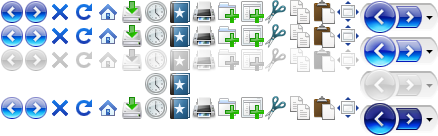
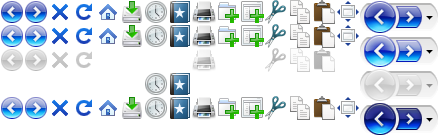
Bug 510442 - remove unneeded CSS and image data for toolbar buttons that are always enabled. r=rflint

Changed region(s): [[0.2078, 0.3529, 0.4452, 0.5294], [0.4749, 0.3529, 0.6233, 0.5294], [0.7717, 0.3529, 0.8311, 0.5294]]

diff --git a/browser/themes/winstripe/browser/browser.css b/browser/themes/winstripe/browser/browser.css
@@ -427,13 +427,10 @@ toolbar[iconsize="small"][mode="icons"] #back-forward-dropmarker:not([disabled="
 #home-button {
   -moz-image-region: rect(0px 120px 24px 96px);
 }
-#home-button:not([disabled="true"]):hover {
+#home-button:hover {
   -moz-image-region: rect(24px 120px 48px 96px);
 }
-#home-button[disabled="true"] {
-  -moz-image-region: rect(48px 120px 72px 96px);
-}
-#home-button:not([disabled="true"]):hover:active {
+#home-button:hover:active {
   -moz-image-region: rect(96px 120px 120px 96px);
 }
 
@@ -442,13 +439,10 @@ toolbar[iconsize="small"][mode="icons"] #back-forward-dropmarker:not([disabled="
 #downloads-button {
   -moz-image-region: rect(0px 144px 24px 120px);
 }
-#downloads-button:not([disabled="true"]):hover {
+#downloads-button:hover {
   -moz-image-region: rect(24px 144px 48px 120px);
 }
-#downloads-button[disabled="true"] {
-  -moz-image-region: rect(48px 144px 72px 120px);
-}
-#downloads-button:not([disabled="true"]):hover:active {
+#downloads-button:hover:active {
   -moz-image-region: rect(96px 144px 120px 120px);
 }
 
@@ -457,16 +451,13 @@ toolbar[iconsize="small"][mode="icons"] #back-forward-dropmarker:not([disabled="
 #history-button {
   -moz-image-region: rect(0px 168px 24px 144px);
 }
-#history-button:not([disabled="true"]):not([checked="true"]):hover {
+#history-button:not([checked="true"]):hover {
   -moz-image-region: rect(24px 168px 48px 144px);
-}
-#history-button[disabled="true"] {
-  -moz-image-region: rect(48px 168px 72px 144px);
 }
 #history-button[checked="true"] {
   -moz-image-region: rect(72px 168px 96px 144px);
 }
-#history-button:not([disabled="true"]):not([checked="true"]):hover:active {
+#history-button:not([checked="true"]):hover:active {
   -moz-image-region: rect(96px 168px 120px 144px);
 }
 
@@ -475,16 +466,13 @@ toolbar[iconsize="small"][mode="icons"] #back-forward-dropmarker:not([disabled="
 #bookmarks-button {
   -moz-image-region: rect(0px 192px 24px 168px);
 }
-#bookmarks-button:not([disabled="true"]):not([checked="true"]):hover {
+#bookmarks-button:not([checked="true"]):hover {
   -moz-image-region: rect(24px 192px 48px 168px);
-}
-#bookmarks-button[disabled="true"] {
-  -moz-image-region: rect(48px 192px 72px 168px);
 }
 #bookmarks-button[checked="true"] {
   -moz-image-region: rect(72px 192px 96px 168px);
 }
-#bookmarks-button:not([disabled="true"]):not([checked="true"]):hover:active {
+#bookmarks-button:not([checked="true"]):hover:active {
   -moz-image-region: rect(96px 192px 120px 168px);
 }
 
@@ -508,13 +496,10 @@ toolbar[iconsize="small"][mode="icons"] #back-forward-dropmarker:not([disabled="
 #new-tab-button {
   -moz-image-region: rect(0px 240px 24px 216px);
 }
-#new-tab-button:not([disabled="true"]):hover {
+#new-tab-button:hover {
   -moz-image-region: rect(24px 240px 48px 216px);
 }
-#new-tab-button[disabled="true"] {
-  -moz-image-region: rect(48px 240px 72px 216px);
-}
-#new-tab-button:not([disabled="true"]):hover:active {
+#new-tab-button:hover:active {
   -moz-image-region: rect(96px 240px 120px 216px);
 }
 
@@ -523,13 +508,10 @@ toolbar[iconsize="small"][mode="icons"] #back-forward-dropmarker:not([disabled="
 #new-window-button {
   -moz-image-region: rect(0px 264px 24px 240px);
 }
-#new-window-button:not([disabled="true"]):hover {
+#new-window-button:hover {
   -moz-image-region: rect(24px 264px 48px 240px);
 }
-#new-window-button[disabled="true"] {
-  -moz-image-region: rect(48px 264px 72px 240px);
-}
-#new-window-button:not([disabled="true"]):hover:active {
+#new-window-button:hover:active {
   -moz-image-region: rect(96px 264px 120px 240px);
 }
 
@@ -689,16 +671,12 @@ toolbar[iconsize="small"] #home-button ,
 #home-button.bookmark-item {
   -moz-image-region: rect(0px 80px 16px 64px);
 }
-toolbar[iconsize="small"] #home-button:not([disabled="true"]):hover ,
-#home-button.bookmark-item:not([disabled="true"]):hover {
+toolbar[iconsize="small"] #home-button:hover ,
+#home-button.bookmark-item:hover {
   -moz-image-region: rect(16px 80px 32px 64px);
 }
-toolbar[iconsize="small"] #home-button[disabled="true"] ,
-#home-button.bookmark-item[disabled="true"] {
-  -moz-image-region: rect(32px 80px 48px 64px);
-}
-toolbar[iconsize="small"] #home-button:not([disabled="true"]):hover:active ,
-#home-button.bookmark-item:not([disabled="true"]):hover:active {
+toolbar[iconsize="small"] #home-button:hover:active ,
+#home-button.bookmark-item:hover:active {
   -moz-image-region: rect(64px 80px 80px 64px);
 }
 
@@ -707,13 +685,10 @@ toolbar[iconsize="small"] #home-button:not([disabled="true"]):hover:active ,
 toolbar[iconsize="small"] #downloads-button {
   -moz-image-region: rect(0px 96px 16px 80px);
 }
-toolbar[iconsize="small"] #downloads-button:not([disabled="true"]):hover {
+toolbar[iconsize="small"] #downloads-button:hover {
   -moz-image-region: rect(16px 96px 32px 80px);
 }
-toolbar[iconsize="small"] #downloads-button[disabled="true"] {
-  -moz-image-region: rect(32px 96px 48px 80px);
-}
-toolbar[iconsize="small"] #downloads-button:not([disabled="true"]):hover:active {
+toolbar[iconsize="small"] #downloads-button:hover:active {
   -moz-image-region: rect(64px 96px 80px 80px);
 }
 
@@ -722,16 +697,13 @@ toolbar[iconsize="small"] #downloads-button:not([disabled="true"]):hover:active 
 toolbar[iconsize="small"] #history-button {
   -moz-image-region: rect(0px 112px 16px 96px);
 }
-toolbar[iconsize="small"] #history-button:not([disabled="true"]):not([checked="true"]):hover {
+toolbar[iconsize="small"] #history-button:not([checked="true"]):hover {
   -moz-image-region: rect(16px 112px 32px 96px);
-}
-toolbar[iconsize="small"] #history-button[disabled="true"] {
-  -moz-image-region: rect(32px 112px 48px 96px);
 }
 toolbar[iconsize="small"] #history-button[checked="true"] {
   -moz-image-region: rect(48px 112px 64px 96px);
 }
-toolbar[iconsize="small"] #history-button:not([disabled="true"]):not([checked="true"]):hover:active {
+toolbar[iconsize="small"] #history-button:not([checked="true"]):hover:active {
   -moz-image-region: rect(64px 112px 80px 96px);
 }
 
@@ -740,16 +712,13 @@ toolbar[iconsize="small"] #history-button:not([disabled="true"]):not([checked="t
 toolbar[iconsize="small"] #bookmarks-button {
   -moz-image-region: rect(0px 128px 16px 112px);
 }
-toolbar[iconsize="small"] #bookmarks-button:not([disabled="true"]):not([checked="true"]):hover {
+toolbar[iconsize="small"] #bookmarks-button:not([checked="true"]):hover {
   -moz-image-region: rect(16px 128px 32px 112px);
-}
-toolbar[iconsize="small"] #bookmarks-button[disabled="true"] {
-  -moz-image-region: rect(32px 128px 48px 112px);
 }
 toolbar[iconsize="small"] #bookmarks-button[checked="true"] {
   -moz-image-region: rect(48px 128px 64px 112px);
 }
-toolbar[iconsize="small"] #bookmarks-button:not([disabled="true"]):not([checked="true"]):hover:active {
+toolbar[iconsize="small"] #bookmarks-button:not([checked="true"]):hover:active {
   -moz-image-region: rect(64px 128px 80px 112px);
 }
 
@@ -773,13 +742,10 @@ toolbar[iconsize="small"] #print-button:not([disabled="true"]):hover:active {
 toolbar[iconsize="small"] #new-tab-button {
   -moz-image-region: rect(0px 160px 16px 144px);
 }
-toolbar[iconsize="small"] #new-tab-button:not([disabled="true"]):hover {
+toolbar[iconsize="small"] #new-tab-button:hover {
   -moz-image-region: rect(16px 160px 32px 144px);
 }
-toolbar[iconsize="small"] #new-tab-button[disabled="true"] {
-  -moz-image-region: rect(32px 160px 48px 144px);
-}
-toolbar[iconsize="small"] #new-tab-button:not([disabled="true"]):hover:active {
+toolbar[iconsize="small"] #new-tab-button:hover:active {
   -moz-image-region: rect(64px 160px 80px 144px);
 }
 
@@ -788,13 +754,10 @@ toolbar[iconsize="small"] #new-tab-button:not([disabled="true"]):hover:active {
 toolbar[iconsize="small"] #new-window-button {
   -moz-image-region: rect(0px 176px 16px 160px);
 }
-toolbar[iconsize="small"] #new-window-button:not([disabled="true"]):hover {
+toolbar[iconsize="small"] #new-window-button:hover {
   -moz-image-region: rect(16px 176px 32px 160px);
 }
-toolbar[iconsize="small"] #new-window-button[disabled="true"] {
-  -moz-image-region: rect(32px 176px 48px 160px);
-}
-toolbar[iconsize="small"] #new-window-button:not([disabled="true"]):hover:active {
+toolbar[iconsize="small"] #new-window-button:hover:active {
   -moz-image-region: rect(64px 176px 80px 160px);
 }
 

diff --git a/browser/themes/gnomestripe/browser/browser.css b/browser/themes/gnomestripe/browser/browser.css
@@ -546,29 +546,17 @@ toolbar[mode="full"] .toolbarbutton-menubutton-button {
 #home-button {
   list-style-image: url("moz-icon://stock/gtk-home?size=toolbar");
 }
-#home-button[disabled="true"] {
-  list-style-image: url("moz-icon://stock/gtk-home?size=toolbar&state=disabled");
-}
 
 #downloads-button {
   -moz-image-region: rect(0px 24px 24px 0px);
-}
-#downloads-button[disabled="true"] {
-  -moz-image-region: rect(24px 24px 48px 0px);
 }
 
 #history-button {
   -moz-image-region: rect(0px 48px 24px 24px);
 }
-#history-button[disabled="true"] {
-  -moz-image-region: rect(24px 48px 48px 24px);
-}
 
 #bookmarks-button {
   -moz-image-region: rect(0px 72px 24px 48px);
-}
-#bookmarks-button[disabled="true"] {
-  -moz-image-region: rect(24px 72px 48px 48px);
 }
 
 #print-button {
@@ -581,15 +569,9 @@ toolbar[mode="full"] .toolbarbutton-menubutton-button {
 #new-tab-button {
   -moz-image-region: rect(0px 96px 24px 72px);
 }
-#new-tab-button[disabled="true"] {
-  -moz-image-region: rect(24px 96px 48px 72px);
-}
 
 #new-window-button {
   -moz-image-region: rect(0px 120px 24px 96px);
-}
-#new-window-button[disabled="true"] {
-  -moz-image-region: rect(24px 120px 48px 96px);
 }
 
 #cut-button {
@@ -686,30 +668,17 @@ toolbar[iconsize="small"] #home-button ,
 #home-button.bookmark-item {
   list-style-image: url("moz-icon://stock/gtk-home?size=menu");
 }
-toolbar[iconsize="small"] #home-button[disabled="true"] ,
-#home-button.bookmark-item[disabled="true"] {
-  list-style-image: url("moz-icon://stock/gtk-home?size=menu&state=disabled");
-}
 
 toolbar[iconsize="small"] #downloads-button {
   -moz-image-region: rect(0px 16px 16px 0px);
-}
-toolbar[iconsize="small"] #downloads-button[disabled="true"] {
-  -moz-image-region: rect(16px 16px 32px 0px);
 }
 
 toolbar[iconsize="small"] #history-button {
   -moz-image-region: rect(0px 32px 16px 16px);
 }
-toolbar[iconsize="small"] #history-button[disabled="true"] {
-  -moz-image-region: rect(16px 32px 32px 16px);
-}
 
 toolbar[iconsize="small"] #bookmarks-button {
   -moz-image-region: rect(0px 48px 16px 32px);
-}
-toolbar[iconsize="small"] #bookmarks-button[disabled="true"] {
-  -moz-image-region: rect(16px 48px 32px 32px);
 }
 
 toolbar[iconsize="small"] #print-button {
@@ -722,15 +691,9 @@ toolbar[iconsize="small"] #print-button[disabled="true"] {
 toolbar[iconsize="small"] #new-tab-button {
   -moz-image-region: rect(0px 64px 16px 48px);
 }
-toolbar[iconsize="small"] #new-tab-button[disabled="true"] {
-  -moz-image-region: rect(16px 64px 32px 48px);
-}
 
 toolbar[iconsize="small"] #new-window-button {
   -moz-image-region: rect(0px 80px 16px 64px);
-}
-toolbar[iconsize="small"] #new-window-button[disabled="true"] {
-  -moz-image-region: rect(16px 80px 32px 64px);
 }
 
 toolbar[iconsize="small"] #cut-button {

diff --git a/browser/themes/pinstripe/browser/browser.css b/browser/themes/pinstripe/browser/browser.css
@@ -529,9 +529,6 @@ toolbar[iconsize="small"] #unified-back-forward-button > #back-forward-dropmarke
 #home-button {
   -moz-image-region: rect(0px, 180px, 23px, 144px);
 }
-#home-button[disabled="true"] {
-  -moz-image-region: rect(23px, 180px, 46px, 144px) !important;
-}
 #home-button:hover:active {
   -moz-image-region: rect(46px, 180px, 69px, 144px);
 }
@@ -550,9 +547,6 @@ toolbar[iconsize="small"] #unified-back-forward-button > #back-forward-dropmarke
 #downloads-button {
   -moz-image-region: rect(0px, 216px, 23px, 180px);
 }
-#downloads-button[disabled="true"] {
-  -moz-image-region: rect(23px, 216px, 46px, 180px);
-}
 #downloads-button:hover:active {
   -moz-image-region: rect(46px, 216px, 69px, 180px);
 }
@@ -561,9 +555,6 @@ toolbar[iconsize="small"] #unified-back-forward-button > #back-forward-dropmarke
 
 #history-button {
   -moz-image-region: rect(0px, 252px, 23px, 216px);
-}
-#history-button[disabled="true"] {
-  -moz-image-region: rect(23px, 252px, 46px, 216px);
 }
 #history-button:hover:active { 
   -moz-image-region: rect(46px, 252px, 69px, 216px);
@@ -585,9 +576,6 @@ toolbar[iconsize="small"] #unified-back-forward-button > #back-forward-dropmarke
 
 #bookmarks-button {
   -moz-image-region: rect(0px, 288px, 23px, 252px);
-}
-#bookmarks-button[disabled="true"] {
-  -moz-image-region: rect(23px, 288px, 46px, 252px);
 }
 #bookmarks-button:hover:active {
   -moz-image-region: rect(46px, 288px, 69px, 252px);
@@ -622,9 +610,6 @@ toolbar[iconsize="small"] #unified-back-forward-button > #back-forward-dropmarke
 #new-tab-button {
   -moz-image-region: rect(0px, 360px, 23px, 324px);
 }
-#new-tab-button[disabled="true"] {
-  -moz-image-region: rect(23px, 360px, 46px, 324px);
-}
 #new-tab-button:hover:active {
   -moz-image-region: rect(46px, 360px, 69px, 324px);
 }
@@ -633,9 +618,6 @@ toolbar[iconsize="small"] #unified-back-forward-button > #back-forward-dropmarke
 
 #new-window-button {
   -moz-image-region: rect(0px, 396px, 23px, 360px);
-}
-#new-window-button[disabled="true"] {
-  -moz-image-region: rect(23px, 396px, 46px, 360px);
 }
 #new-window-button:hover:active {
   -moz-image-region: rect(46px, 396px, 69px, 360px);
